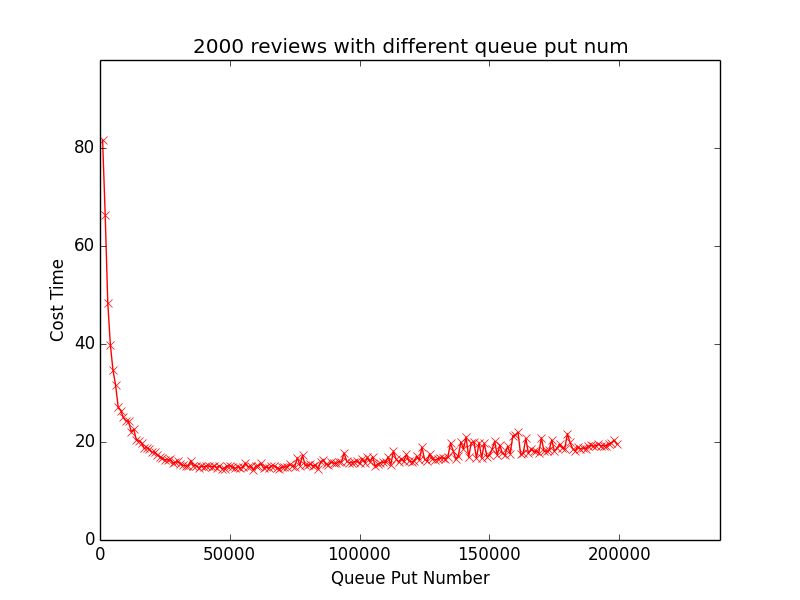
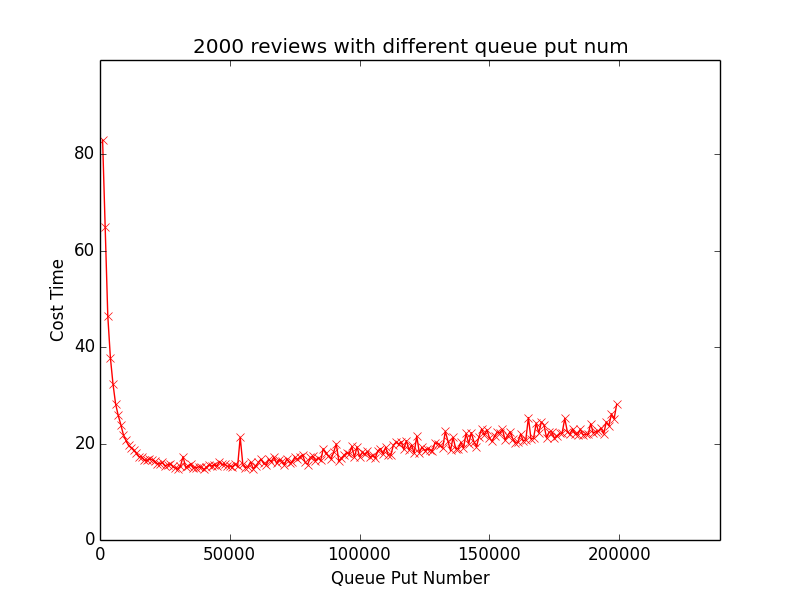
add cost time with different putnum

Changed region(s): [[0.0938, 0.48, 0.7812, 0.81], [0.0938, 0.33, 0.1562, 0.42], [0.0938, 0.24, 0.125, 0.27]]

diff --git a/plot.py b/plot.py
@@ -91,18 +91,37 @@ class Plot:
 		# plt.legend([line_single, line_multi], ['Single', 'Multi'])
 		# plt.savefig('graphs/single_multi.png')
 
+	def draw_two_lines(self, line1, line2, line1_name, line2_name, xlabel='', ylabel='', filename=''):
+		single_dict = line1
+		single_dict = collections.OrderedDict(sorted(single_dict.items()))
+		# -------------------------
+		
+		multi_dict = line2 
+		multi_dict = collections.OrderedDict(sorted(multi_dict.items()))
+		
+		single_x_list = single_dict.keys()
+		single_y_list = single_dict.values()
+		multi_x_list = multi_dict.keys()
+		multi_y_list = multi_dict.values()
+		plt.ylabel(ylabel)
+		plt.xlabel(xlabel)
+		line_single, line_multi = plt.plot(single_x_list, single_y_list, 'bx-', multi_x_list, multi_y_list, 'rx-')
+		plt.legend([line_single, line_multi], [line1_name, line2_name], bbox_to_anchor=(0.5, 1))
+		plt.savefig('graphs/' + filename + '.png')
+
 if __name__ == '__main__':
 	plot = Plot()
-	test_dict = {}
-	for x in xrange(4000, 400000, 2000):
-		test_dict[x] = 0
-	print str(test_dict)
-	plot.multiprocess_putnum(test_dict, 3000)
+	# test_dict = {}
+	# for x in xrange(1000, 100000, 1000):
+	# 	test_dict[x] = 0
+	# print str(test_dict)
+	# plot.multiprocess_putnum(test_dict, 1000)
 	# plot.multi_single_datanum(1000, 5000, 100, 20000)
 
-	# plot.save_graph(collections.OrderedDict(sorted({64000: 14.918230056762695, 96000: 15.744375944137573, 197000: 19.829822778701782, 85000: 15.994122982025146, 139000: 20.036482095718384, 42000: 15.09686803817749, 7000: 27.16706609725952, 110000: 15.831425905227661, 194000: 19.258142948150635, 63000: 14.682793140411377, 165000: 17.73047685623169, 20000: 17.920326948165894, 14000: 20.43348503112793, 107000: 15.52566409111023, 191000: 19.242440938949585, 41000: 15.102224111557007, 162000: 17.511078119277954, 134000: 16.996234893798828, 156000: 17.412498950958252, 62000: 15.627978801727295, 21000: 18.001748085021973, 133000: 16.631924152374268, 19000: 18.528390169143677, 188000: 19.1599280834198, 167000: 18.11474919319153, 159000: 21.29122805595398, 40000: 14.950007915496826, 92000: 15.98358702659607, 130000: 16.522154808044434, 61000: 15.211261987686157, 101000: 16.629250049591064, 185000: 18.54332685470581, 178000: 18.857381105422974, 82000: 15.144268035888672, 3000: 48.3637969493866, 127000: 17.625098943710327, 39000: 15.108372926712036, 98000: 15.999804019927979, 182000: 18.686457872390747, 60000: 15.043747901916504, 74000: 15.116554975509644, 153000: 17.371186017990112, 81000: 15.520318984985352, 124000: 18.9638991355896, 179000: 18.560935020446777, 38000: 14.806413888931274, 17000: 18.7116858959198, 113000: 18.151208877563477, 150000: 17.349174976348877, 59000: 14.380456924438477, 121000: 16.156711101531982, 16000: 19.90347719192505, 88000: 15.395801067352295, 176000: 18.709563970565796, 147000: 16.72798490524292, 37000: 15.161941051483154, 118000: 17.466742992401123, 58000: 15.186264991760254, 95000: 16.11911416053772, 135000: 19.816465854644775, 15000: 20.175090074539185, 144000: 20.101855993270874, 115000: 15.937544107437134, 36000: 15.119109153747559, 6000: 31.63468599319458, 170000: 20.851011037826538, 146000: 19.911347150802612, 57000: 14.930532932281494, 141000: 21.05031418800354, 78000: 17.307641983032227, 13000: 22.59499216079712, 112000: 15.29670000076294, 196000: 19.671149969100952, 35000: 16.236346006393433, 157000: 19.124186038970947, 138000: 17.162599086761475, 56000: 15.727712154388428, 84000: 14.522046089172363, 109000: 15.92066502571106, 193000: 19.255282878875732, 77000: 15.214536905288696, 164000: 20.746891975402832, 168000: 18.123740911483765, 34000: 15.136823177337646, 91000: 15.680315971374512, 106000: 15.070641994476318, 190000: 19.17009210586548, 55000: 14.853172063827515, 161000: 21.992069005966187, 76000: 16.81409215927124, 2000: 66.36966300010681, 132000: 16.69684410095215, 33000: 15.118573904037476, 187000: 18.664016008377075, 103000: 16.932559967041016, 158000: 17.653738975524902, 54000: 14.707251071929932, 73000: 15.4998939037323, 129000: 16.338701963424683, 11000: 24.236300945281982, 100000: 15.649889945983887, 184000: 19.0886070728302, 32000: 15.250720024108887, 80000: 15.245896100997925, 114000: 16.546409130096436, 126000: 16.05789804458618, 53000: 14.961920022964478, 97000: 15.811627864837646, 181000: 19.96997904777527, 10000: 24.293741941452026, 87000: 15.448606014251709, 125000: 16.5158588886261, 152000: 20.121020078659058, 31000: 15.459984064102173, 123000: 16.37104105949402, 52000: 14.618037939071655, 94000: 17.786370992660522, 136000: 18.259411096572876, 149000: 17.054018020629883, 9000: 25.049793004989624, 120000: 15.94108510017395, 30000: 16.03421401977539, 5000: 34.715928077697754, 175000: 18.13328504562378, 51000: 14.917027950286865, 117000: 16.08367609977722, 8000: 26.413170099258423, 12000: 22.15650510787964, 172000: 18.106805086135864, 29000: 15.842013835906982, 143000: 19.855108976364136, 199000: 19.6211519241333, 50000: 15.152168035507202, 83000: 15.376329183578491, 169000: 17.78787398338318, 71000: 14.912647008895874, 140000: 18.594067811965942, 28000: 15.694918155670166, 90000: 15.690378904342651, 111000: 17.00503921508789, 195000: 19.24498987197876, 49000: 15.14981198310852, 166000: 18.51816201210022, 137000: 16.61916208267212, 70000: 14.89110016822815, 65000: 14.657104969024658, 108000: 15.75787901878357, 192000: 19.509616136550903, 27000: 16.45912194252014, 163000: 17.72785711288452, 104000: 15.998986005783081, 48000: 14.603538036346436, 72000: 14.888283014297485, 105000: 17.021487951278687, 69000: 14.564287900924683, 173000: 18.304534912109375, 160000: 21.469449043273926, 26000: 16.34509301185608, 79000: 15.283149003982544, 131000: 16.797734022140503, 47000: 14.586381912231445, 102000: 15.778518915176392, 186000: 18.840651988983154, 155000: 17.707167863845825, 68000: 14.783122062683105, 86000: 16.405131101608276, 198000: 20.394216060638428, 128000: 16.56391406059265, 25000: 16.41101598739624, 99000: 16.040529012680054, 183000: 18.2150239944458, 46000: 15.179689884185791, 93000: 15.941359996795654, 154000: 19.332723140716553, 67000: 15.086982011795044, 180000: 21.71414589881897, 24000: 16.67489194869995, 4000: 39.802417039871216, 177000: 19.580168962478638, 151000: 18.512964963912964, 45000: 14.799952030181885, 122000: 17.075910091400146, 66000: 15.176244020462036, 75000: 14.961277961730957, 148000: 19.777824878692627, 23000: 16.991419076919556, 119000: 16.118332862854004, 44000: 15.079751968383789, 18000: 18.84535789489746, 174000: 20.461286067962646, 1000: 81.70069408416748, 145000: 16.670475006103516, 189000: 19.31572389602661, 116000: 16.58310580253601, 22000: 17.334073066711426, 89000: 15.937705039978027, 171000: 18.16211199760437, 43000: 14.970747947692871, 142000: 16.917114973068237}.items())), 'graphs/multi_putnum2000_costTime.png', plot_type='rx-', use_log=[False, False], log_base=[2, 10], title='2000 reviews with different queue put num', xlabel='Queue Put Number', ylabel='Cost Time')
-	
-
+	plot.save_graph(collections.OrderedDict(sorted({128000: 19.81463313102722, 160000: 21.081717014312744, 168000: 22.348346948623657, 252000: 25.082547187805176, 336000: 25.468505859375, 42000: 18.817505836486816, 110000: 19.18031096458435, 194000: 23.153693914413452, 278000: 24.476943969726562, 362000: 26.582540035247803, 348000: 27.09394884109497, 84000: 19.187562942504883, 46000: 19.493875980377197, 304000: 25.375380039215088, 388000: 27.857498168945312, 162000: 20.100162982940674, 246000: 23.22539496421814, 330000: 23.45575499534607, 126000: 19.270339012145996, 188000: 22.411683082580566, 272000: 26.388715028762817, 356000: 26.414397954940796, 104000: 19.076249837875366, 124000: 18.93190097808838, 214000: 23.257671117782593, 298000: 25.30849599838257, 382000: 27.954083919525146, 200000: 23.260756969451904, 178000: 21.529160022735596, 18000: 23.825605869293213, 240000: 21.976758003234863, 324000: 23.952816009521484, 14000: 26.414932012557983, 182000: 21.530462980270386, 266000: 27.960168838500977, 350000: 26.855690002441406, 60000: 18.247766971588135, 106000: 18.778358936309814, 40000: 19.235347986221313, 208000: 22.615700006484985, 292000: 26.093460083007812, 376000: 28.443765878677368, 102000: 17.9149010181427, 66000: 18.542129039764404, 234000: 24.94533681869507, 318000: 26.6406729221344, 144000: 20.533079862594604, 88000: 18.56637215614319, 176000: 22.0626540184021, 260000: 24.548346996307373, 344000: 26.21404480934143, 202000: 24.00723886489868, 286000: 24.678972005844116, 58000: 18.573670148849487, 228000: 24.19322109222412, 312000: 25.166810035705566, 396000: 25.519543170928955, 36000: 19.090945959091187, 70000: 17.797744035720825, 262000: 23.397679090499878, 170000: 21.464282989501953, 254000: 23.688794136047363, 338000: 26.67580795288086, 78000: 18.830219984054565, 28000: 19.601558923721313, 196000: 23.20405912399292, 280000: 24.916033029556274, 364000: 26.41873788833618, 54000: 18.306936979293823, 138000: 20.2208571434021, 222000: 36.27754592895508, 120000: 20.04131317138672, 20000: 22.305625915527344, 164000: 21.41818904876709, 248000: 24.528424978256226, 332000: 25.985937118530273, 98000: 18.71520495414734, 22000: 21.74246096611023, 190000: 22.090204000473022, 274000: 24.676424026489258, 358000: 25.028383016586304, 92000: 18.349332094192505, 76000: 17.97584104537964, 34000: 18.59342098236084, 48000: 18.69089698791504, 132000: 18.945136070251465, 216000: 22.840863943099976, 300000: 24.910309076309204, 384000: 27.393293857574463, 306000: 25.25875186920166, 74000: 18.178436994552612, 118000: 18.738034963607788, 326000: 25.513248205184937, 16000: 24.229766845703125, 100000: 18.65045690536499, 184000: 21.946819067001343, 268000: 25.016039848327637, 352000: 26.593766927719116, 32000: 19.69257092475891, 80000: 18.1582088470459, 210000: 23.101752042770386, 294000: 26.201587915420532, 378000: 28.026932954788208, 10000: 35.133870124816895, 328000: 25.38268494606018, 152000: 20.703857898712158, 236000: 23.15003490447998, 320000: 26.903038024902344, 52000: 17.945120096206665, 158000: 21.7328097820282, 346000: 27.81009006500244, 204000: 22.602012157440186, 288000: 25.96410322189331, 372000: 26.54750895500183, 94000: 18.384406089782715, 62000: 17.798189878463745, 230000: 23.803049087524414, 314000: 25.945528984069824, 398000: 31.331424951553345, 136000: 20.294739961624146, 12000: 29.46535611152649, 390000: 28.27534294128418, 256000: 23.423882007598877, 340000: 26.164860010147095, 30000: 19.05753993988037, 114000: 18.444633960723877, 198000: 22.629400968551636, 282000: 27.08322286605835, 366000: 26.25536298751831, 56000: 18.29160785675049, 140000: 19.92656898498535, 224000: 22.850502014160156, 308000: 23.833784818649292, 156000: 20.194499969482422, 26000: 20.65705919265747, 334000: 26.9377019405365, 82000: 17.6350519657135, 166000: 20.51869297027588, 250000: 23.511891841888428, 6000: 47.243499994277954, 134000: 19.547131061553955, 108000: 18.50036311149597, 192000: 22.199665069580078, 276000: 23.415847063064575, 360000: 25.325054168701172, 220000: 23.686289072036743, 112000: 20.235549926757812, 8000: 38.574995040893555, 218000: 23.526850938796997, 302000: 24.821906089782715, 386000: 27.483470916748047, 244000: 23.418279886245728, 154000: 19.530729055404663, 392000: 27.060252904891968, 186000: 21.261362075805664, 270000: 24.669883012771606, 354000: 26.7850399017334, 242000: 25.22299098968506, 68000: 18.503583908081055, 150000: 20.72471785545349, 44000: 18.392594814300537, 212000: 24.054256916046143, 296000: 24.633254051208496, 380000: 27.02082896232605, 174000: 23.013771057128906, 50000: 19.02516198158264, 238000: 23.538522958755493, 322000: 27.16215419769287, 96000: 19.099744081497192, 180000: 21.807392835617065, 24000: 20.830286979675293, 4000: 66.1182930469513, 264000: 24.684216022491455, 148000: 20.31847596168518, 38000: 18.32979702949524, 122000: 18.961071014404297, 206000: 22.918817043304443, 290000: 25.207573890686035, 374000: 27.75454020500183, 130000: 19.24707293510437, 64000: 17.657036066055298, 72000: 18.329849004745483, 232000: 23.65850591659546, 316000: 25.28797197341919, 172000: 21.122595071792603, 146000: 20.70047688484192, 90000: 18.199474096298218, 258000: 22.82648491859436, 342000: 25.76897096633911, 370000: 25.486793994903564, 116000: 19.173809051513672, 86000: 18.373577117919922, 284000: 25.446794986724854, 368000: 27.945759057998657, 142000: 20.29368782043457, 226000: 23.519004821777344, 310000: 26.641079902648926, 394000: 28.363338947296143}.items())), 'graphs/multi_putnum2650_costTime.png', plot_type='bx-', use_log=[False, False], log_base=[2, 10], title='2650 reviews with different queue put num', xlabel='Queue Put Number', ylabel='Cost Time')
+	line1 = {64000: 15.54409909248352, 96000: 17.91155195236206, 197000: 26.181999921798706, 85000: 16.523008823394775, 139000: 20.282007932662964, 42000: 15.590786933898926, 7000: 25.87469482421875, 110000: 19.2220721244812, 194000: 22.00397300720215, 63000: 15.900903940200806, 165000: 25.39664888381958, 20000: 16.67783212661743, 14000: 18.02102303504944, 107000: 18.48328399658203, 191000: 22.506100177764893, 41000: 15.104591846466064, 162000: 21.99971079826355, 134000: 20.51047992706299, 156000: 20.815571069717407, 62000: 16.763310194015503, 21000: 16.343470096588135, 133000: 22.55448079109192, 19000: 16.81163787841797, 188000: 21.900794982910156, 167000: 21.145938873291016, 159000: 20.977035999298096, 40000: 14.630563974380493, 92000: 16.36197590827942, 130000: 20.004963874816895, 61000: 16.08869504928589, 101000: 18.162627935409546, 185000: 23.02169394493103, 178000: 22.194555044174194, 82000: 17.37111496925354, 3000: 46.49158215522766, 127000: 18.712833166122437, 39000: 15.054373979568481, 98000: 17.152311086654663, 182000: 23.054797887802124, 60000: 15.328022956848145, 74000: 16.177387952804565, 153000: 22.400089025497437, 81000: 17.11673903465271, 124000: 19.27326798439026, 179000: 25.213248014450073, 38000: 15.214221000671387, 17000: 16.572164058685303, 113000: 19.675176858901978, 150000: 21.214121103286743, 59000: 14.808340072631836, 121000: 18.029592990875244, 16000: 17.290897130966187, 88000: 17.4464430809021, 176000: 21.587119102478027, 147000: 23.04778790473938, 37000: 15.013219118118286, 118000: 20.59904718399048, 58000: 16.208750009536743, 95000: 18.134380102157593, 135000: 18.583555936813354, 15000: 17.260880947113037, 144000: 20.398552894592285, 115000: 19.906339168548584, 36000: 14.887594938278198, 6000: 28.268728017807007, 170000: 24.483439922332764, 146000: 21.44957709312439, 57000: 15.20581316947937, 141000: 22.118729829788208, 78000: 17.698693990707397, 13000: 18.739008903503418, 112000: 17.59039807319641, 196000: 23.730618953704834, 35000: 15.820635795593262, 157000: 21.67442798614502, 138000: 18.973037004470825, 56000: 15.021862983703613, 84000: 16.99814510345459, 109000: 17.84048080444336, 193000: 23.256552934646606, 77000: 17.247486114501953, 164000: 20.78304386138916, 168000: 24.25407886505127, 34000: 15.409257173538208, 91000: 19.9299099445343, 106000: 16.955354928970337, 190000: 22.159852981567383, 55000: 15.759994983673096, 161000: 20.38531994819641, 76000: 16.719117879867554, 2000: 65.01260614395142, 132000: 19.13209581375122, 33000: 15.048703908920288, 187000: 21.90873908996582, 103000: 18.39875102043152, 158000: 22.461010217666626, 54000: 21.332144021987915, 73000: 16.02231478691101, 129000: 20.15620493888855, 11000: 19.663283824920654, 100000: 17.238421201705933, 184000: 21.836221933364868, 32000: 17.303630828857422, 80000: 15.651803016662598, 114000: 20.26866316795349, 126000: 18.92274308204651, 53000: 15.252794981002808, 97000: 19.4066379070282, 181000: 21.970340967178345, 10000: 20.64423894882202, 87000: 18.07679796218872, 125000: 18.553523063659668, 152000: 21.5577449798584, 31000: 15.385058879852295, 123000: 18.111117124557495, 52000: 15.728004932403564, 94000: 17.578251123428345, 136000: 21.294640064239502, 149000: 22.911736965179443, 9000: 21.874018907546997, 120000: 19.726557970046997, 30000: 14.830615043640137, 5000: 32.38316893577576, 175000: 21.13709783554077, 51000: 15.181730031967163, 117000: 18.790503978729248, 8000: 23.958948135375977, 12000: 19.107399940490723, 172000: 21.16641616821289, 29000: 14.955428838729858, 143000: 22.261148929595947, 199000: 28.121949911117554, 50000: 15.3282949924469, 83000: 16.479693174362183, 169000: 22.211363077163696, 71000: 15.53238320350647, 140000: 19.07860517501831, 28000: 15.321637868881226, 90000: 18.23764705657959, 111000: 17.663609981536865, 195000: 24.501304149627686, 49000: 15.28238320350647, 166000: 20.94898509979248, 137000: 18.93939709663391, 70000: 16.477746963500977, 65000: 16.711618900299072, 108000: 18.976934909820557, 192000: 22.5560519695282, 27000: 15.735305070877075, 163000: 20.5540771484375, 104000: 17.18948006629944, 48000: 15.713478088378906, 72000: 16.87546396255493, 105000: 17.55184507369995, 69000: 16.675304889678955, 173000: 22.406929969787598, 160000: 20.05379891395569, 26000: 15.615864038467407, 79000: 16.12786316871643, 131000: 19.62421417236328, 47000: 15.69202208518982, 102000: 17.823256015777588, 186000: 21.812764167785645, 155000: 22.949939966201782, 68000: 15.950672149658203, 86000: 18.921672105789185, 198000: 25.118178129196167, 128000: 18.385443925857544, 25000: 15.364504098892212, 99000: 19.348181009292603, 183000: 22.045759916305542, 46000: 16.214648962020874, 93000: 17.016628980636597, 154000: 22.229641914367676, 67000: 17.183949947357178, 180000: 22.492046117782593, 24000: 16.141730070114136, 4000: 37.83291292190552, 177000: 22.111371994018555, 151000: 20.441914081573486, 45000: 15.322413921356201, 122000: 21.547066926956177, 66000: 16.261982917785645, 75000: 17.169163942337036, 148000: 21.784814834594727, 23000: 15.78530216217041, 119000: 18.68993091583252, 44000: 15.656283855438232, 18000: 16.511091947555542, 174000: 22.469401121139526, 1000: 82.98990416526794, 145000: 19.383219003677368, 189000: 24.13125205039978, 116000: 20.375128030776978, 22000: 15.855690002441406, 89000: 16.816063165664673, 171000: 23.890240907669067, 43000: 15.311058044433594, 142000: 19.957084894180298}
+	line2 = {128000: 19.81463313102722, 160000: 21.081717014312744, 168000: 22.348346948623657, 252000: 25.082547187805176, 336000: 25.468505859375, 42000: 18.817505836486816, 110000: 19.18031096458435, 194000: 23.153693914413452, 278000: 24.476943969726562, 362000: 26.582540035247803, 348000: 27.09394884109497, 84000: 19.187562942504883, 46000: 19.493875980377197, 304000: 25.375380039215088, 388000: 27.857498168945312, 162000: 20.100162982940674, 246000: 23.22539496421814, 330000: 23.45575499534607, 126000: 19.270339012145996, 188000: 22.411683082580566, 272000: 26.388715028762817, 356000: 26.414397954940796, 104000: 19.076249837875366, 124000: 18.93190097808838, 214000: 23.257671117782593, 298000: 25.30849599838257, 382000: 27.954083919525146, 200000: 23.260756969451904, 178000: 21.529160022735596, 18000: 23.825605869293213, 240000: 21.976758003234863, 324000: 23.952816009521484, 14000: 26.414932012557983, 182000: 21.530462980270386, 266000: 27.960168838500977, 350000: 26.855690002441406, 60000: 18.247766971588135, 106000: 18.778358936309814, 40000: 19.235347986221313, 208000: 22.615700006484985, 292000: 26.093460083007812, 376000: 28.443765878677368, 102000: 17.9149010181427, 66000: 18.542129039764404, 234000: 24.94533681869507, 318000: 26.6406729221344, 144000: 20.533079862594604, 88000: 18.56637215614319, 176000: 22.0626540184021, 260000: 24.548346996307373, 344000: 26.21404480934143, 202000: 24.00723886489868, 286000: 24.678972005844116, 58000: 18.573670148849487, 228000: 24.19322109222412, 312000: 25.166810035705566, 396000: 25.519543170928955, 36000: 19.090945959091187, 70000: 17.797744035720825, 262000: 23.397679090499878, 170000: 21.464282989501953, 254000: 23.688794136047363, 338000: 26.67580795288086, 78000: 18.830219984054565, 28000: 19.601558923721313, 196000: 23.20405912399292, 280000: 24.916033029556274, 364000: 26.41873788833618, 54000: 18.306936979293823, 138000: 20.2208571434021, 222000: 36.27754592895508, 120000: 20.04131317138672, 20000: 22.305625915527344, 164000: 21.41818904876709, 248000: 24.528424978256226, 332000: 25.985937118530273, 98000: 18.71520495414734, 22000: 21.74246096611023, 190000: 22.090204000473022, 274000: 24.676424026489258, 358000: 25.028383016586304, 92000: 18.349332094192505, 76000: 17.97584104537964, 34000: 18.59342098236084, 48000: 18.69089698791504, 132000: 18.945136070251465, 216000: 22.840863943099976, 300000: 24.910309076309204, 384000: 27.393293857574463, 306000: 25.25875186920166, 74000: 18.178436994552612, 118000: 18.738034963607788, 326000: 25.513248205184937, 16000: 24.229766845703125, 100000: 18.65045690536499, 184000: 21.946819067001343, 268000: 25.016039848327637, 352000: 26.593766927719116, 32000: 19.69257092475891, 80000: 18.1582088470459, 210000: 23.101752042770386, 294000: 26.201587915420532, 378000: 28.026932954788208, 10000: 35.133870124816895, 328000: 25.38268494606018, 152000: 20.703857898712158, 236000: 23.15003490447998, 320000: 26.903038024902344, 52000: 17.945120096206665, 158000: 21.7328097820282, 346000: 27.81009006500244, 204000: 22.602012157440186, 288000: 25.96410322189331, 372000: 26.54750895500183, 94000: 18.384406089782715, 62000: 17.798189878463745, 230000: 23.803049087524414, 314000: 25.945528984069824, 398000: 31.331424951553345, 136000: 20.294739961624146, 12000: 29.46535611152649, 390000: 28.27534294128418, 256000: 23.423882007598877, 340000: 26.164860010147095, 30000: 19.05753993988037, 114000: 18.444633960723877, 198000: 22.629400968551636, 282000: 27.08322286605835, 366000: 26.25536298751831, 56000: 18.29160785675049, 140000: 19.92656898498535, 224000: 22.850502014160156, 308000: 23.833784818649292, 156000: 20.194499969482422, 26000: 20.65705919265747, 334000: 26.9377019405365, 82000: 17.6350519657135, 166000: 20.51869297027588, 250000: 23.511891841888428, 6000: 47.243499994277954, 134000: 19.547131061553955, 108000: 18.50036311149597, 192000: 22.199665069580078, 276000: 23.415847063064575, 360000: 25.325054168701172, 220000: 23.686289072036743, 112000: 20.235549926757812, 8000: 38.574995040893555, 218000: 23.526850938796997, 302000: 24.821906089782715, 386000: 27.483470916748047, 244000: 23.418279886245728, 154000: 19.530729055404663, 392000: 27.060252904891968, 186000: 21.261362075805664, 270000: 24.669883012771606, 354000: 26.7850399017334, 242000: 25.22299098968506, 68000: 18.503583908081055, 150000: 20.72471785545349, 44000: 18.392594814300537, 212000: 24.054256916046143, 296000: 24.633254051208496, 380000: 27.02082896232605, 174000: 23.013771057128906, 50000: 19.02516198158264, 238000: 23.538522958755493, 322000: 27.16215419769287, 96000: 19.099744081497192, 180000: 21.807392835617065, 24000: 20.830286979675293, 4000: 66.1182930469513, 264000: 24.684216022491455, 148000: 20.31847596168518, 38000: 18.32979702949524, 122000: 18.961071014404297, 206000: 22.918817043304443, 290000: 25.207573890686035, 374000: 27.75454020500183, 130000: 19.24707293510437, 64000: 17.657036066055298, 72000: 18.329849004745483, 232000: 23.65850591659546, 316000: 25.28797197341919, 172000: 21.122595071792603, 146000: 20.70047688484192, 90000: 18.199474096298218, 258000: 22.82648491859436, 342000: 25.76897096633911, 370000: 25.486793994903564, 116000: 19.173809051513672, 86000: 18.373577117919922, 284000: 25.446794986724854, 368000: 27.945759057998657, 142000: 20.29368782043457, 226000: 23.519004821777344, 310000: 26.641079902648926, 394000: 28.363338947296143}
+	plot.draw_two_lines(line1, line2, '2000', '2650', xlabel='Put Number', ylabel='Cost Time', filename='put_num_cost_time')
 	
 
 	# single_dict = {3200: 262.5096769332886, 1600: 85.40117812156677, 4100: 393.40612506866455, 1800: 106.48868107795715, 2700: 205.33925104141235, 3600: 316.5888249874115, 1300: 57.37373399734497, 2200: 147.6752598285675, 3100: 251.0879030227661, 4000: 376.5115270614624, 1200: 47.4332001209259, 1700: 95.24941492080688, 2600: 193.1543800830841, 1500: 76.3985378742218, 3500: 303.85127091407776, 4400: 442.0929400920868, 2100: 137.83491921424866, 3000: 238.65617418289185, 3900: 362.72043108940125, 4800: 512.3878018856049, 2500: 182.00989508628845, 3400: 289.6758699417114, 1100: 39.687593936920166, 4300: 426.81977820396423, 2000: 128.8628499507904, 1400: 67.05243587493896, 2900: 227.98532700538635, 3800: 346.6359498500824, 4900: 532.5565299987793, 4700: 494.07091212272644, 2400: 171.3094789981842, 3300: 276.6393790245056, 1000: 32.356853008270264, 1900: 118.46214699745178, 2800: 216.5012538433075, 4200: 410.1247251033783, 3700: 333.5055329799652, 4600: 477.0842230319977, 4500: 461.1914498806, 2300: 159.1701009273529}

diff --git a/multi_process.py b/multi_process.py
@@ -51,8 +51,8 @@ def write_review_distance_to_file(q, l, name, dirname='jaccard_distance'):
 			for grams in grams_pair_list:
 				jaccard_distance = summary_plot.jaccard_distance(grams[0], grams[1])
 				dis_list.append(jaccard_distance)
-			with open(dirname + '/jd.' + str(name), 'w') as fp:
-				fp.write(str(dis_list))
+	with open(dirname + '/jd.' + str(name), 'w') as fp:
+		fp.write(str(dis_list))
 		# time.sleep(1)
 	# print 'writing to file'
 
@@ -85,15 +85,16 @@ def draw_review_distance_multiprocess(list_num=-1, put_num=10000):
 	l = Lock()
 	fu = file_util.FileUtil()
 	fu.open_file('../AmazonDataBackup/reviewsNew.txt')
+	# fu.open_file('../AmazonDataBackup/reviewsNew/reviewsNew103.mP')
 	fu.get_structure()
 	content_list = fu.get_content_list()[0:list_num]
 	content_list_2_grams = summary_plot.get_2_grams_list(content_list)
 	
 	start = time.time()
 	process_list = []
-	cpu_num = cpu_count()
+	cpu_num = cpu_count()/2
 	for i in range(0,cpu_num):
-		p = Process(target=write_review_distance_to_file, args=(q, l, i), kwargs={'dirname':'jaccard_distance_all'})
+		p = Process(target=write_review_distance_to_file, args=(q, l, i), kwargs={'dirname':'jaccard_distance_2'})
 		p.start()
 		process_list.append(p)
 	reviews_len = len(content_list_2_grams)
@@ -107,7 +108,7 @@ def draw_review_distance_multiprocess(list_num=-1, put_num=10000):
 					q.put(grams_pair_list)
 					grams_pair_list = []
 				if not q.empty():
-					time.sleep(0.001)
+					time.sleep(0.0001)
 			grams_pair = [content_list_2_grams[i], content_list_2_grams[j]]
 			grams_pair_list.append(grams_pair)
 			count += 1

diff --git a/summary_plot.py b/summary_plot.py
@@ -1,6 +1,6 @@
 # coding:utf-8
 import operator
-import matplotlib.pyplot as plt
+# import matplotlib.pyplot as plt
 import collections
 from sets import Set
 from collections import Counter
